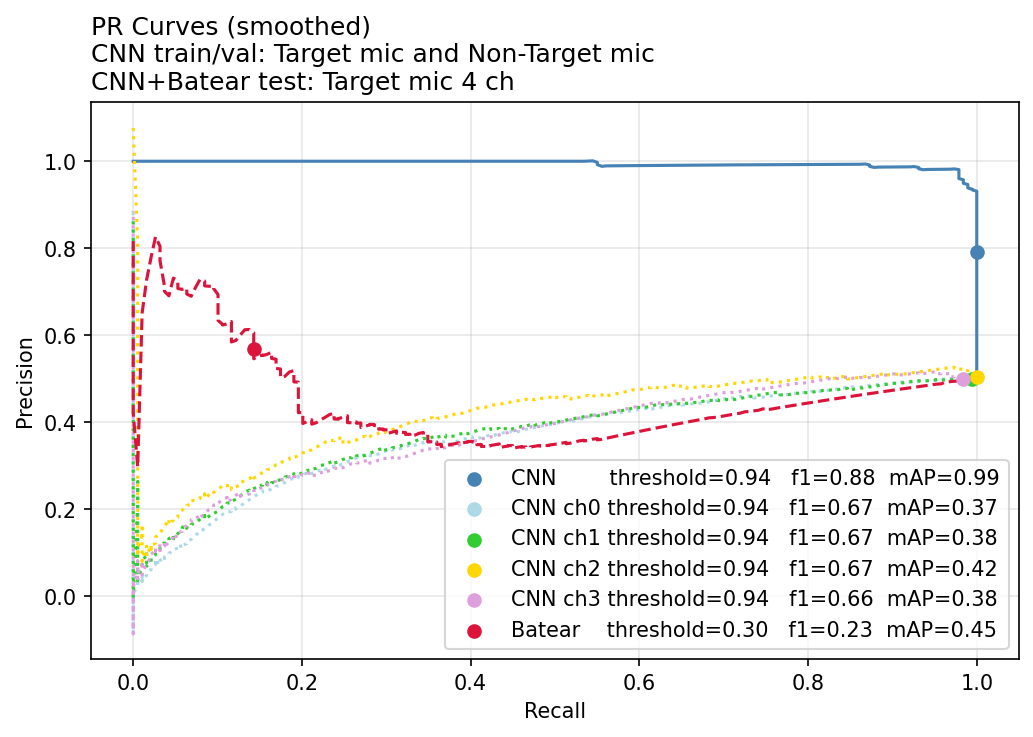
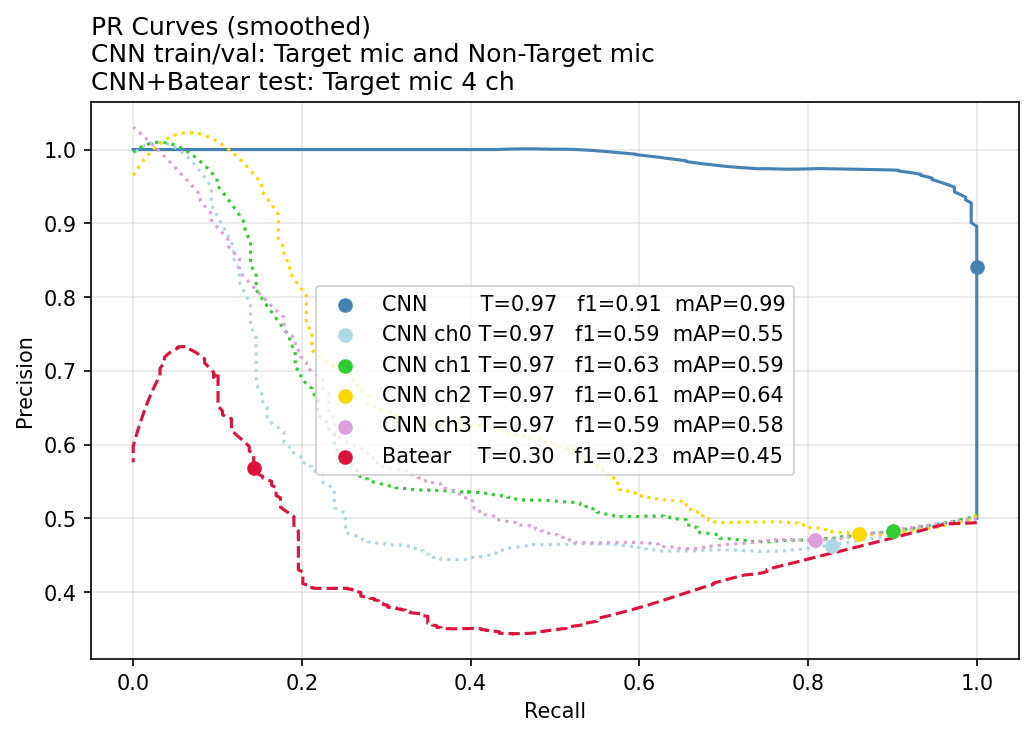
update PR curve

diff --git a/README.md b/README.md
@@ -80,7 +80,7 @@ Batear algorithm is used as benchmark [2].
 
 PR curves show that CNN mAP 0.99 substantially outperforms Batear mAP 0.45 on the same 4-channel test set.
 CNN f1-score is significantly higher than Batear, although Batear is evaluated at default threshold while the CNN threshold is tuned on validation set.
-The fused 4-mic input to the CNN raises mAP by ~0.60, from a mean of ~0.39 across individual channels to 0.99.
+The fused 4-mic input to the CNN raises mAP by ~0.40, from a mean of ~0.59 across individual channels to 0.99.
 CNN results may shift with additional application-specific target HW data and scenarios.
 
 <img src="images/pr_curve_4ch.png" width="70%">
